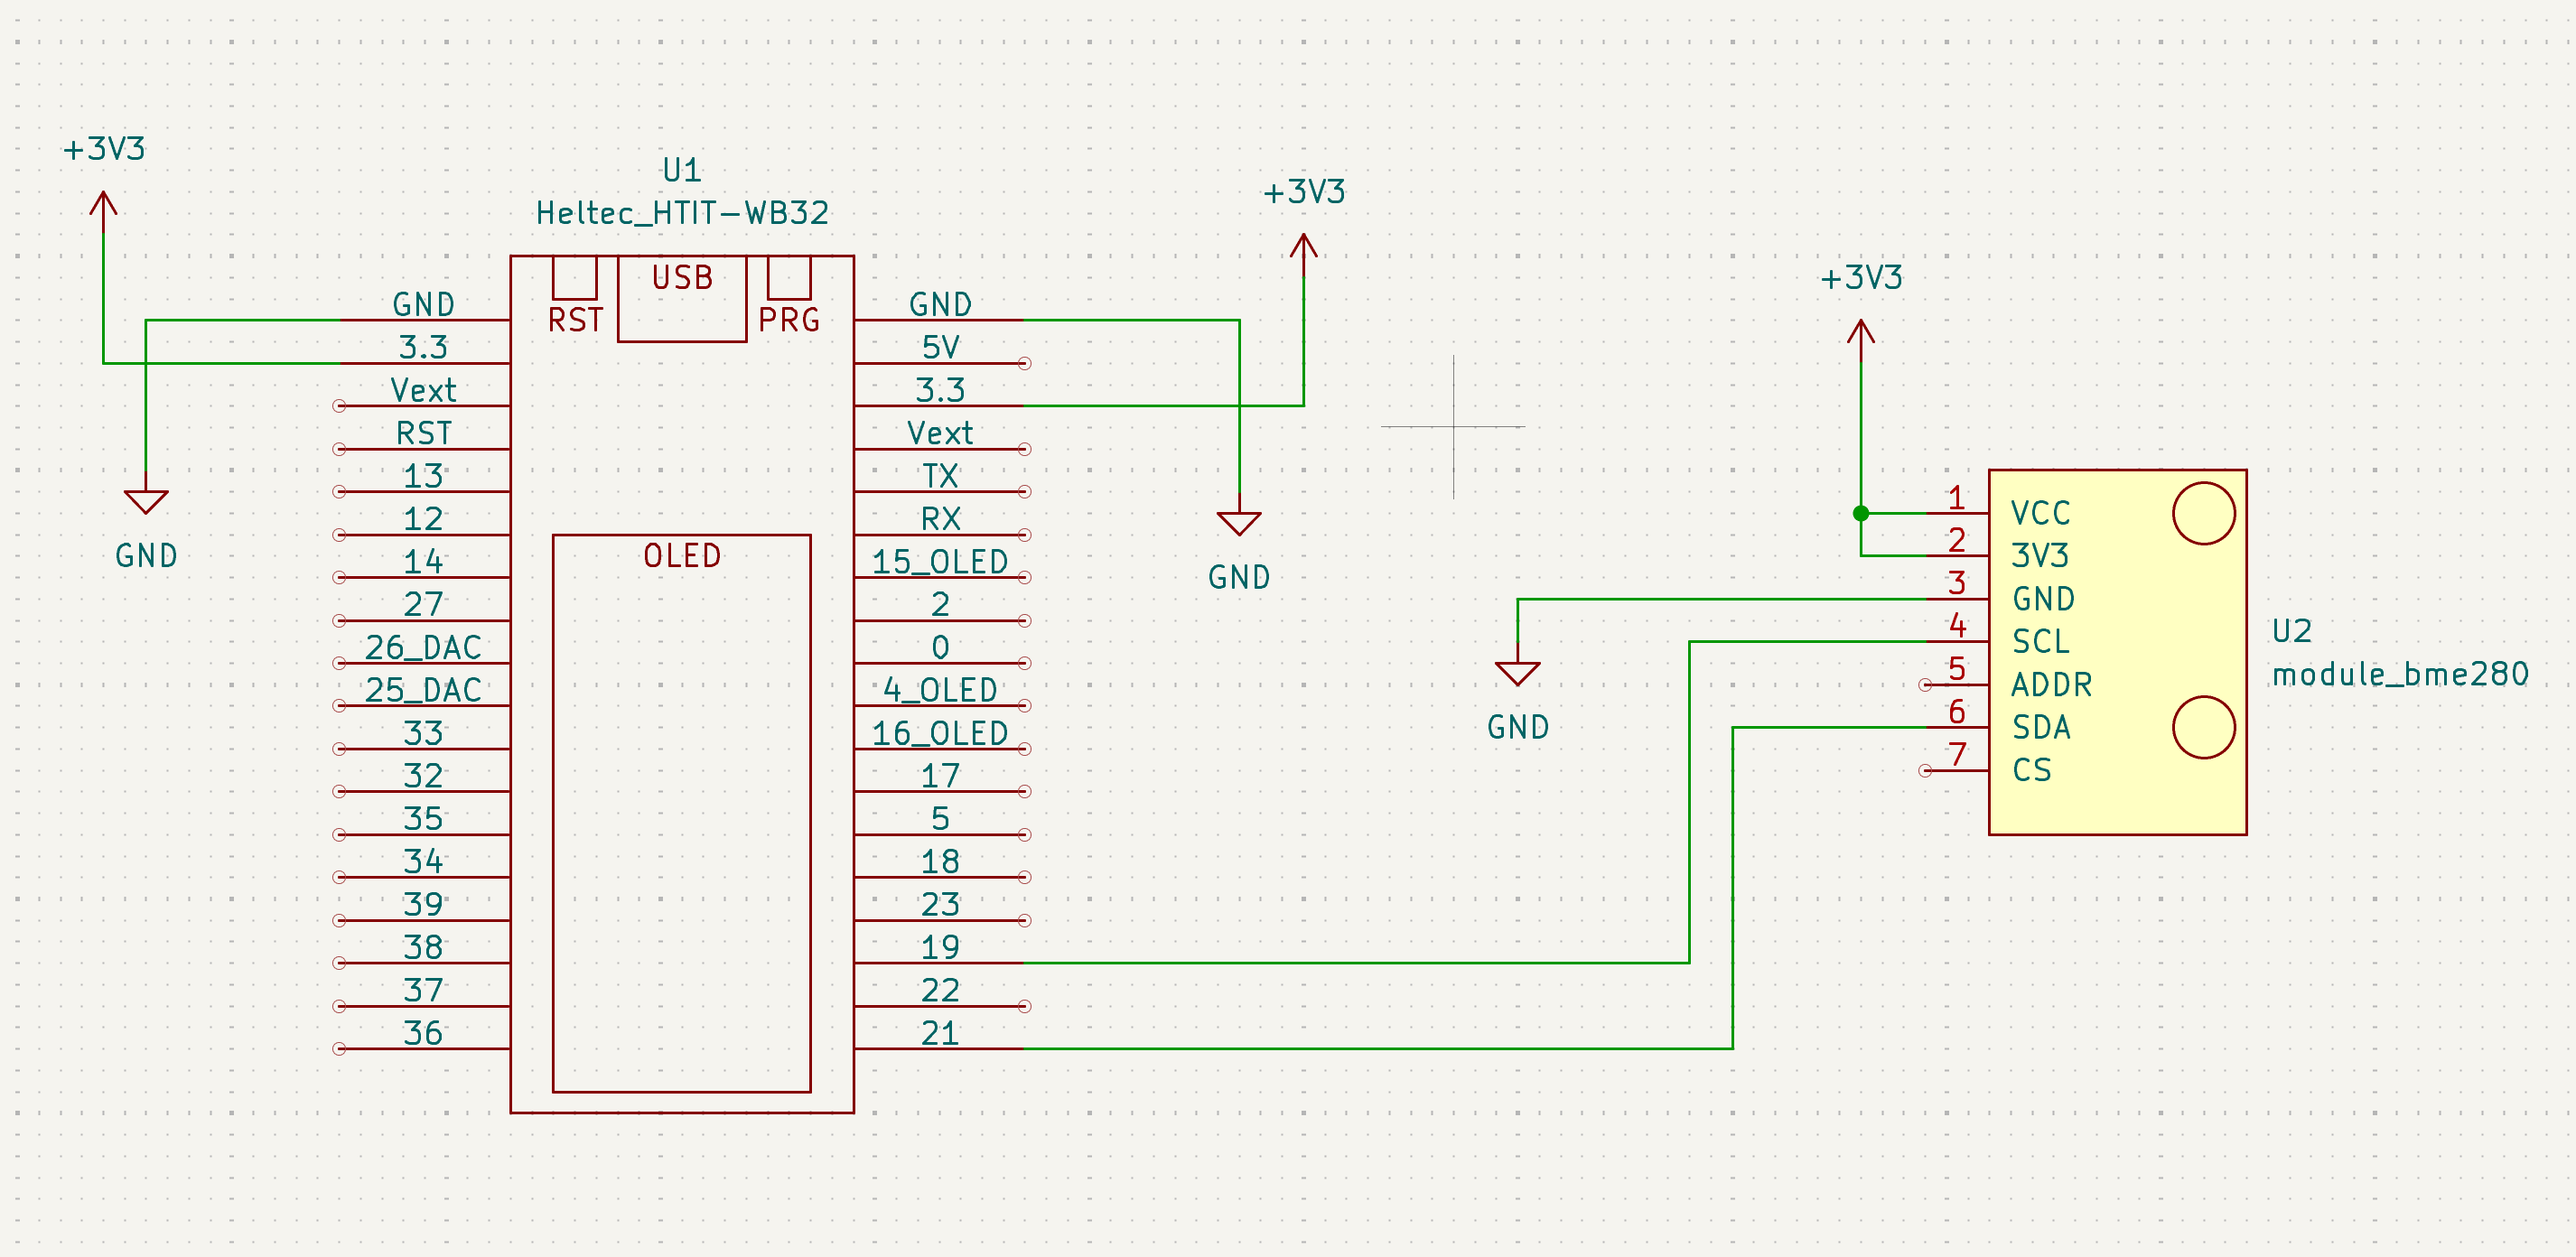
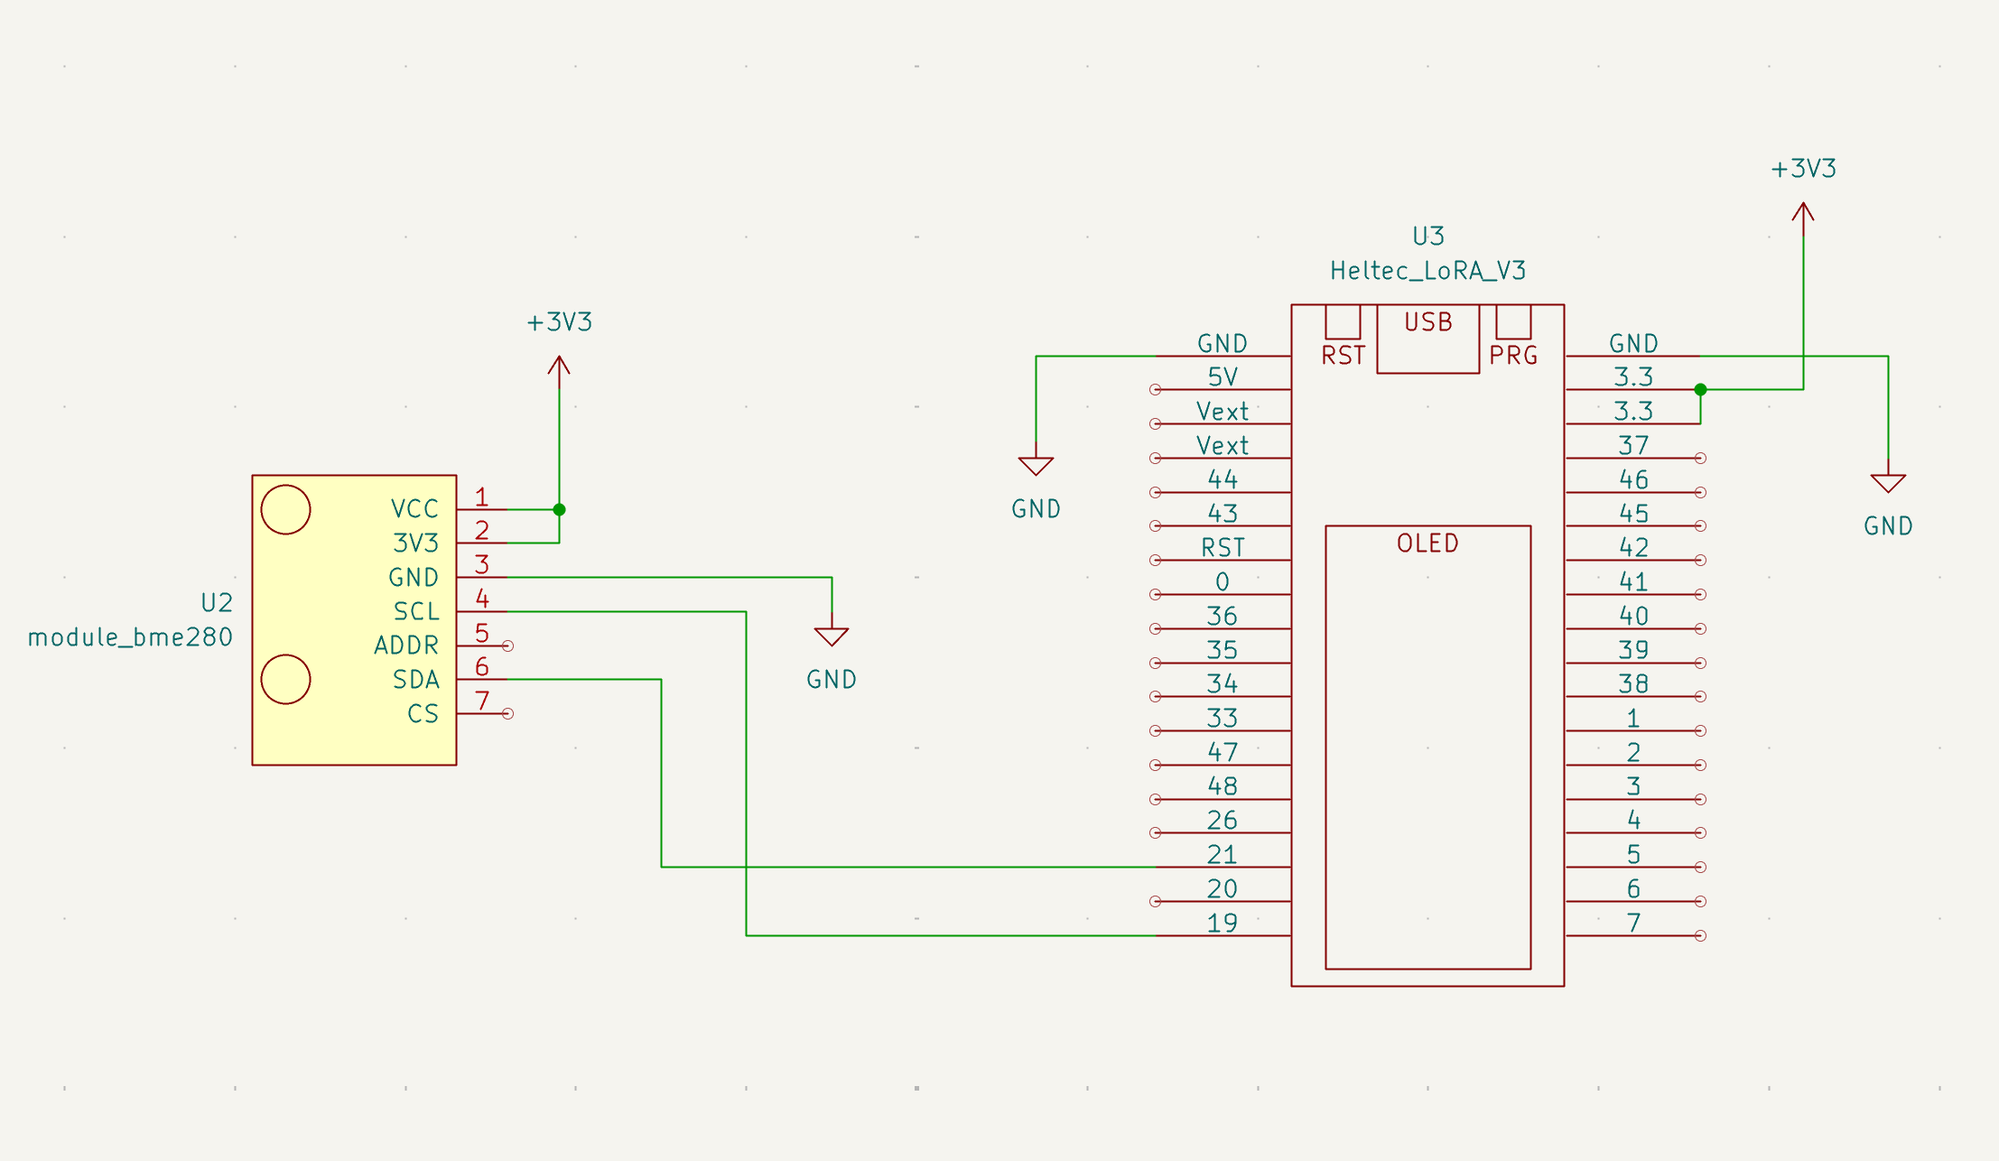
correction in heltec v3 schematic symbol

diff --git a/Projetos/03-Sensor-umidade-bateria/README.md b/Projetos/03-Sensor-umidade-bateria/README.md
@@ -1,3 +1,7 @@
 # esp32-esp-idf-mqtt-bme280
 ESP32 MQTT Publish BME280 Sensor Readings to Node-Red using ESP-IDF
 https://esp32tutorials.com/esp32-mqtt-publish-bme280-node-red-esp-idf/
+
+## Materiais
+- ESP32s3
+- BME280
